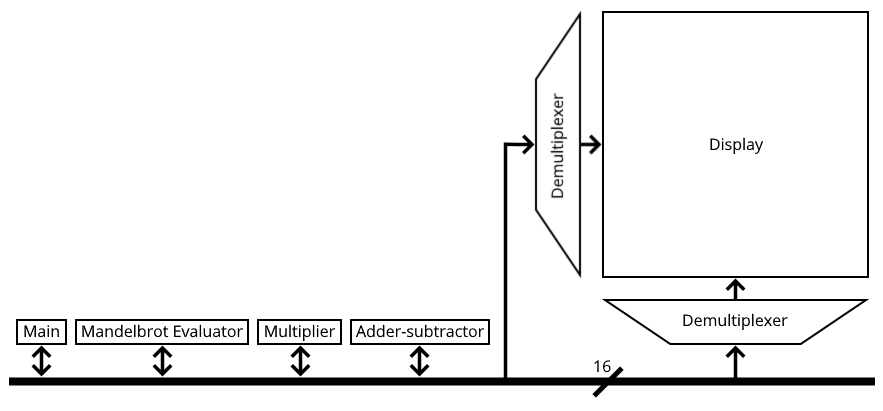
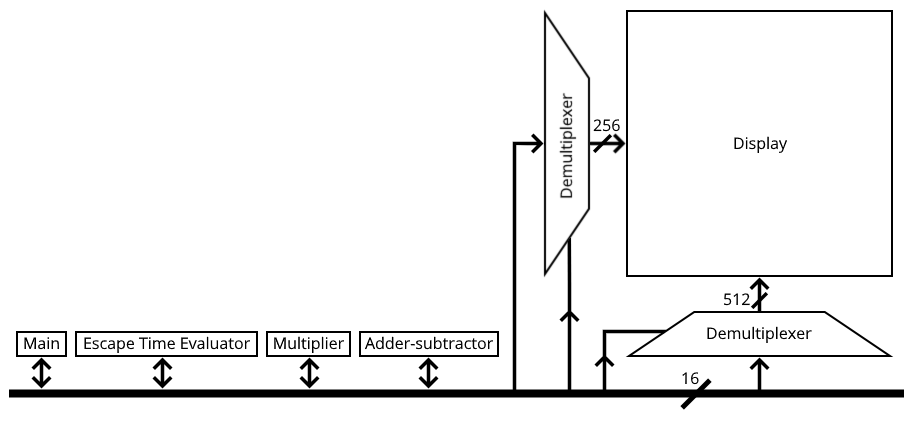
web

Changed region(s): [[0.0, 0.0, 1.0, 0.9635], [0.795, 0.3212, 0.8867, 0.3796]]

diff --git a/web/index.html b/web/index.html
@@ -340,7 +340,7 @@ MathJax = {
     
 <p><img class="centered" alt="mandelbrot-calculator-and-display" id="mandelbrot-calculator-and-display.png" src="mandelbrot-calculator-and-display.png"></p>
 
-<p>Here is a high-level overview:</p>
+<p>As revealed in the high-level diagram below, the Mandelbrot set calculator consists of an adder-subtractor, a multiplier, a point escape time evaluator, and a main device that iterates over the points of the region. Demultiplexers drive the display. And everything shares a 16-bit bus. </p>
 
 <p><img class="centered" alt="overview" id="overview.png" src="overview.png"></p>
 
